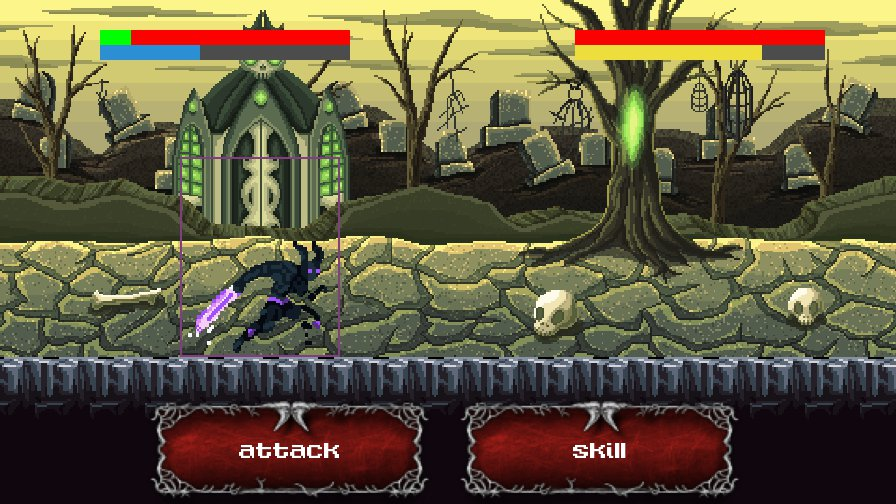
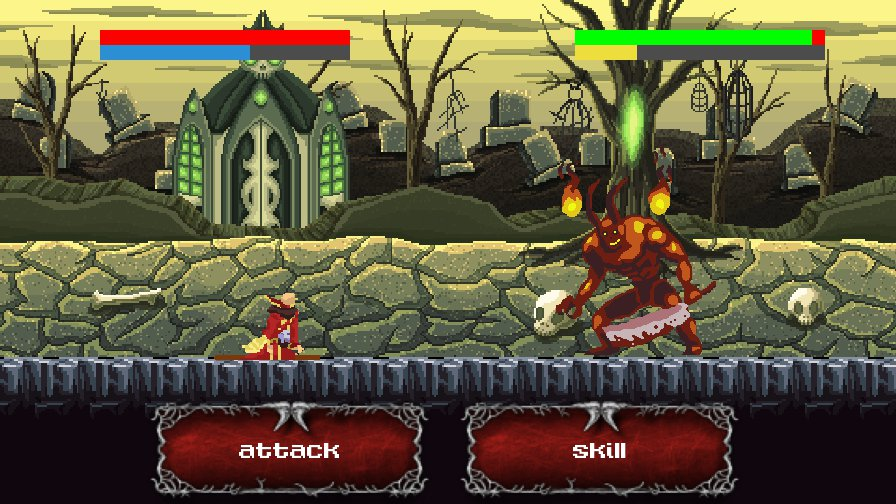
Update Rect & Hapus Kelas redundant

diff --git a/karakter.py b/karakter.py
@@ -3,13 +3,12 @@ import pygame
 import assetModule
 import spritesheet
 from random import randint
-from objek import Hero, Monster, Melee, Ranged
+from objek import Hero, Monster
 from assetModule import get_font
 
-class Alectrona(Hero, Ranged):
+class Alectrona(Hero):
     def __init__(self, nama='Alectrona', hp=3000, damage=235):
         Hero.__init__(self, nama, hp, damage)
-        Ranged.__init__(self)
         self.animation = [[]]
         self.skill_projectile = []
         self.setAnimation()
@@ -85,10 +84,9 @@ class Alectrona(Hero, Ranged):
         self.turn += 1
 
 
-class Nipalto(Hero, Melee):
+class Nipalto(Hero):
     def __init__(self, nama='Nipalto', hp=2750, damage=275):
         Hero.__init__(self, nama, hp, damage)
-        Ranged.__init__(self)
         self.animation = [[]]
         self.setAnimation()
         self.rect = self.animation[0][0].get_rect()
@@ -163,10 +161,9 @@ class Nipalto(Hero, Melee):
         self.turn += 1
         self.skilled = True
 
-class Salazar(Hero, Melee):
+class Salazar(Hero):
     def __init__(self, nama='Salazar', hp=2500, damage=310):
         Hero.__init__(self, nama, hp, damage)
-        Ranged.__init__(self)
         self.animation = [[]]
         self.setAnimation()
         self.rect = self.animation[0][0].get_rect()
@@ -247,10 +244,9 @@ class Salazar(Hero, Melee):
         self.turn += 1
         self.skilled = True
 
-class Aposteus(Monster, Ranged):
+class Aposteus(Monster):
     def __init__(self, nama='Aposteus', hp=5000, damage=115):
         Monster.__init__(self, nama, hp, damage)
-        Ranged.__init__(self)
         self.animation = [[]]
         self.setAnimation()
         self.rect.x = 520
@@ -295,10 +291,9 @@ class Aposteus(Monster, Ranged):
         self.done_buff = True
         self.buffed = True
 
-class Fenrir(Monster, Melee):
+class Fenrir(Monster):
     def __init__(self, nama='Fenrir', hp=4830, damage=78):
         Monster.__init__(self, nama, hp, damage)
-        Ranged.__init__(self)
         self.animation = [[]]
         self.setAnimation()
         self.rect.x = 520
@@ -340,6 +335,6 @@ class Fenrir(Monster, Melee):
                                                 True, "red")
         self.buff_time = pygame.time.get_ticks()
         self.damage = int(self.damage * 0.08)
-        self.buffmeter = 3
+        self.buffmeter = 2
         self.done_buff = True
         self.buffed = True

diff --git a/objek.py b/objek.py
@@ -82,7 +82,7 @@ class Makhluk(ABC):
                                 enemy - (self.skill_dmg + enemy.hp * 0.1)
                             elif self.nama == 'Nipalto':
                                 enemy - self.skill_dmg
-                                enemy.damage - (enemy.damage * 0.03)
+                                enemy.damage - (enemy.damage * 0.02)
                             elif self.nama == 'Salazar':
                                 enemy - self.skill_dmg
                             return      
@@ -108,7 +108,7 @@ class Makhluk(ABC):
 
 # Parent Class
 class Hero(Makhluk):
-    def __init__(self, nama, hp, damage, energi=4):
+    def __init__(self, nama, hp, damage, energi=2):
         super().__init__(nama)
         self.__hp = hp
         self.__damage = damage
@@ -197,7 +197,7 @@ class Monster(Makhluk):
         super().__init__(nama)
         self.__hp = hp
         self.__damage = damage
-        self.__buffmeter = 3
+        self.__buffmeter = 0
         self.finish = True
         self.tipe = 'Monster'
         self.buffed = False
@@ -274,7 +274,7 @@ class Monster(Makhluk):
 
     @buffmeter.setter
     def buffmeter(self, amount):
-        self.__buffmeter = amount
+        self.__buffmeter -= amount
     # Reducing hp after attacked
     def __sub__(self, amount):
         self.__hp -= amount
@@ -282,16 +282,6 @@ class Monster(Makhluk):
     def __add__(self, amount):
         if self.__buffmeter < 4:
             self.__buffmeter += 1
-
-
-class Melee:
-    def __init__(self):
-        self.atk_range = 10
-
-
-class Ranged:
-    def __init__(self):
-        self.atk_range = 70
 
 
 class Lantai(pygame.sprite.Sprite):

diff --git a/main.py b/main.py
@@ -103,7 +103,6 @@ def updateScreen(arena):
     if heroes.skilled:
         if heroes.nama == 'Alectrona':
             WINDOW.blit(heroes.skill_projectile[heroes.frame], (heroes.skill_rect))
-    pygame.draw.rect(WINDOW, (128, 64, 128), heroes.rect, 2)
 
 # Update tombol aksi
 def updateButton(button, x):
